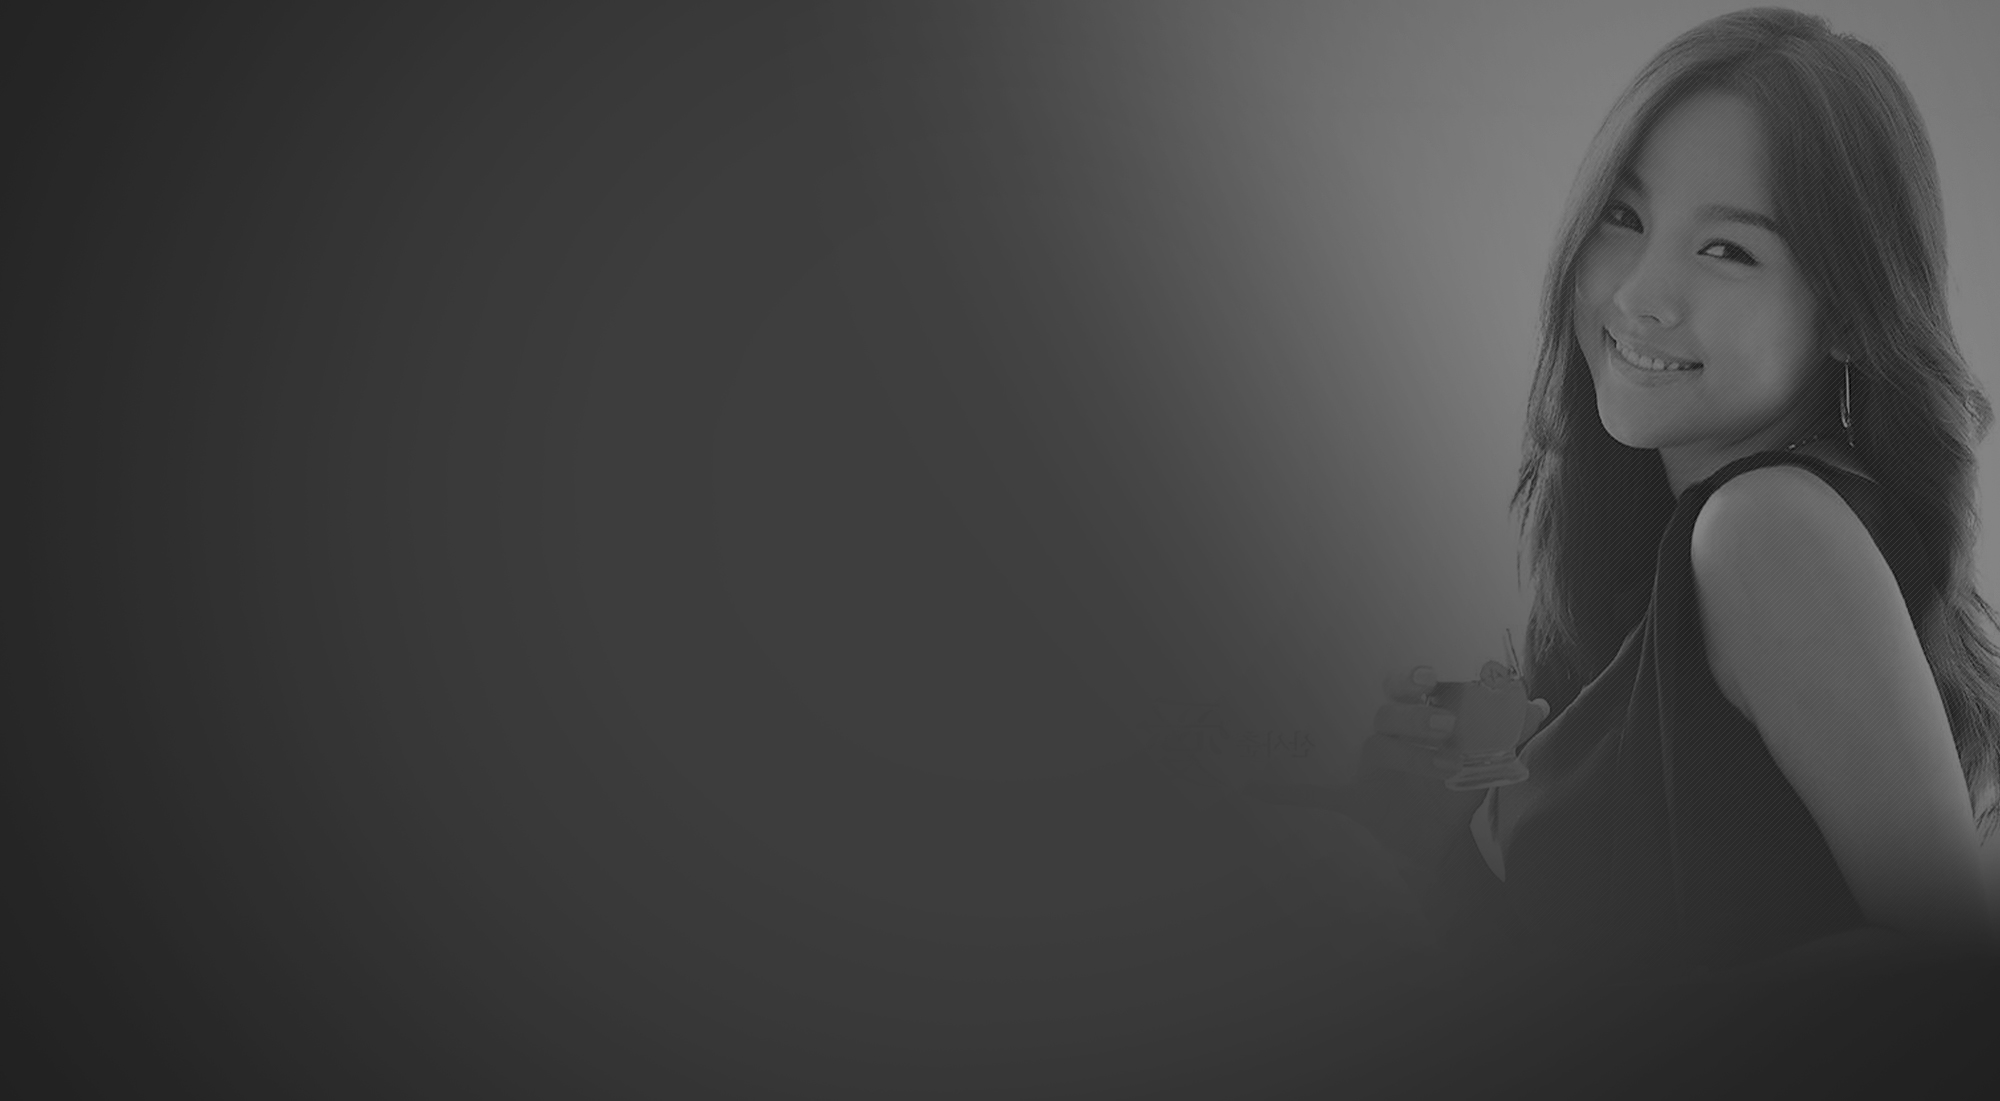
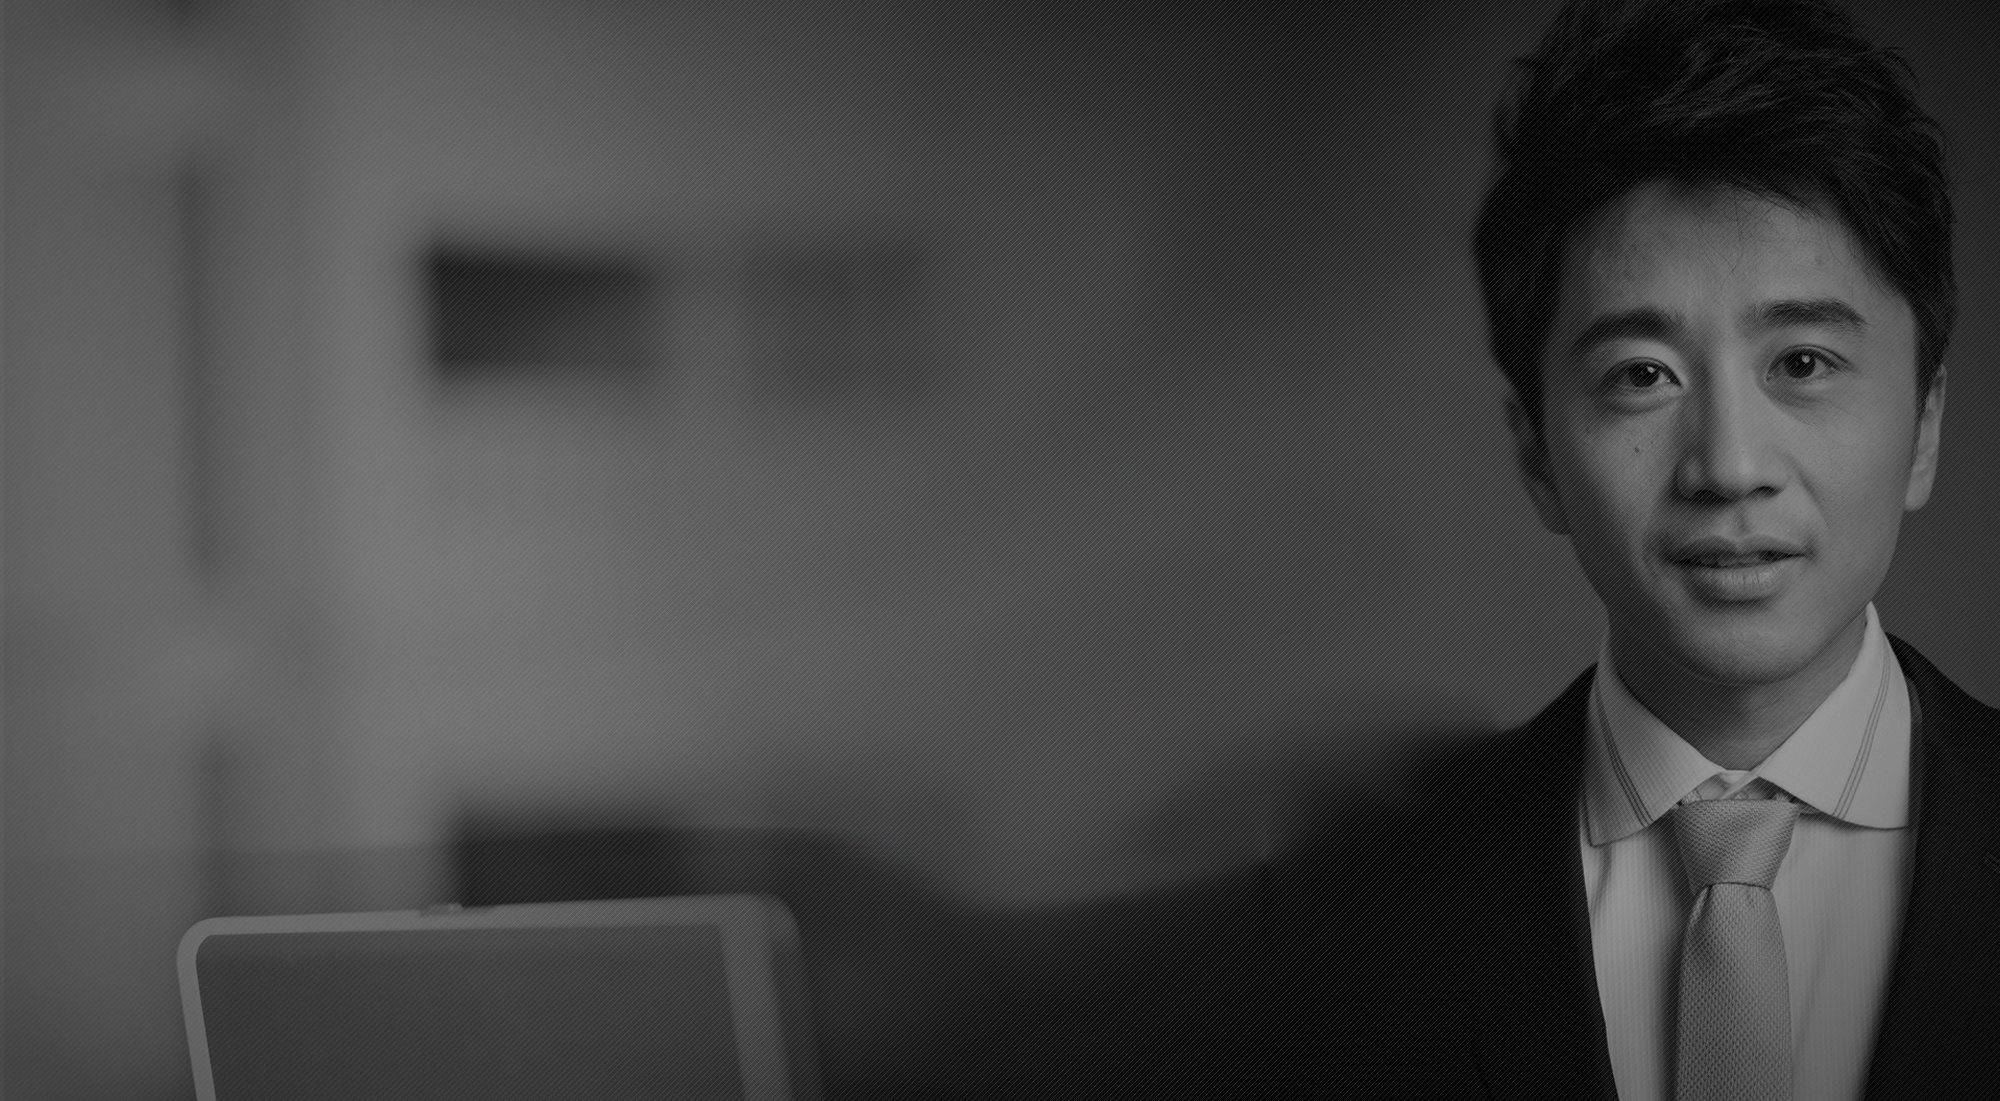
top-link-change

diff --git a/index.html b/index.html
@@ -25,7 +25,7 @@
 	
         //  Initialize Backgound Stretcher	   
 		$('.demoo').bgStretcher({
-			images: ['images/ubertal_bg_13.jpg', 'images/ubertal_bg_11.jpg', 'images/ubertal_bg_14.jpg','images/ubertal_bg_04.jpg','images/ubertal_bg_12.jpg','images/ubertal_bg_06.jpg', 'images/ubertal_bg_10.jpg', 'images/ubertal_bg_08.jpg', 'images/ubertal_bg_09.jpg',],
+			images: ['images/ubertal_bg_13.jpg', 'images/ubertal_bg_11.jpg', 'images/ubertal_bg_15.jpg','images/ubertal_bg_04.jpg','images/ubertal_bg_16.jpg','images/ubertal_bg_06.jpg', 'images/ubertal_bg_08.jpg', 'images/ubertal_bg_09.jpg',],
 			imageWidth: 2000, 
 			imageHeight: 1101, 
 			slideDirection: 'N',
@@ -59,6 +59,7 @@
 		font-size: 12px;
 
 	}
+
 </style>
 <title>官方首页</title>
 </head>

diff --git a/css/main.css b/css/main.css
@@ -40,6 +40,25 @@ src: url(../fonts/Gotham-Bold.otf),
 	text-align: left;
 }
 
+
+.navbar-inverse .navbar-nav > .active > a{
+	color: #df0009;
+
+}
+.navbar-inverse .navbar-nav > li > a:hover{
+	color: #df0009;
+
+}
+
+
+
+
+
+
+
+
+
+
 .navbar-default .navbar-nav > .active > a,
 .navbar-default .navbar-nav > .active > a:hover,
 .navbar-default .navbar-nav > .active > a:focus {
